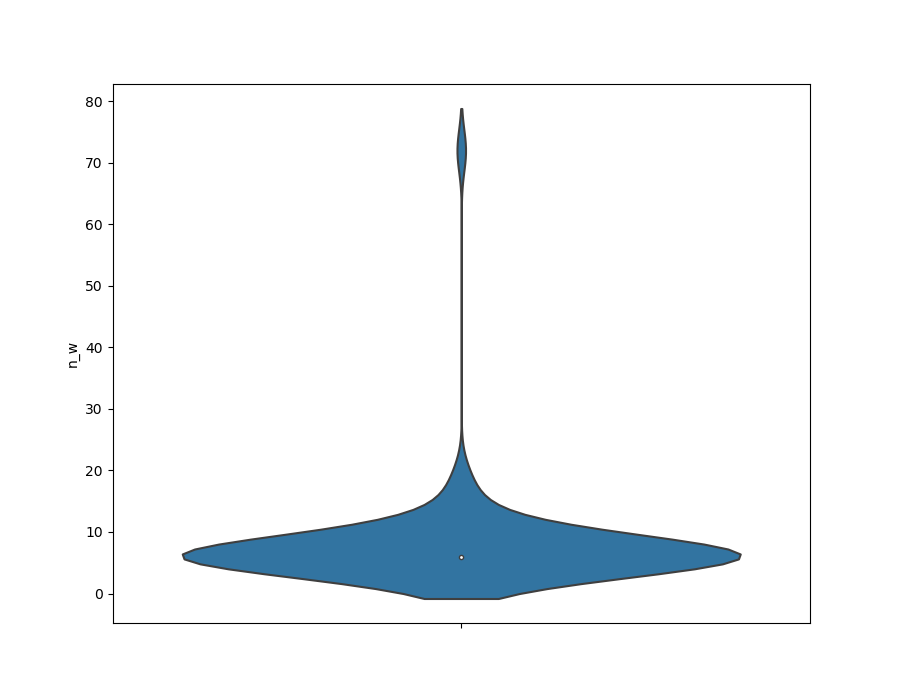
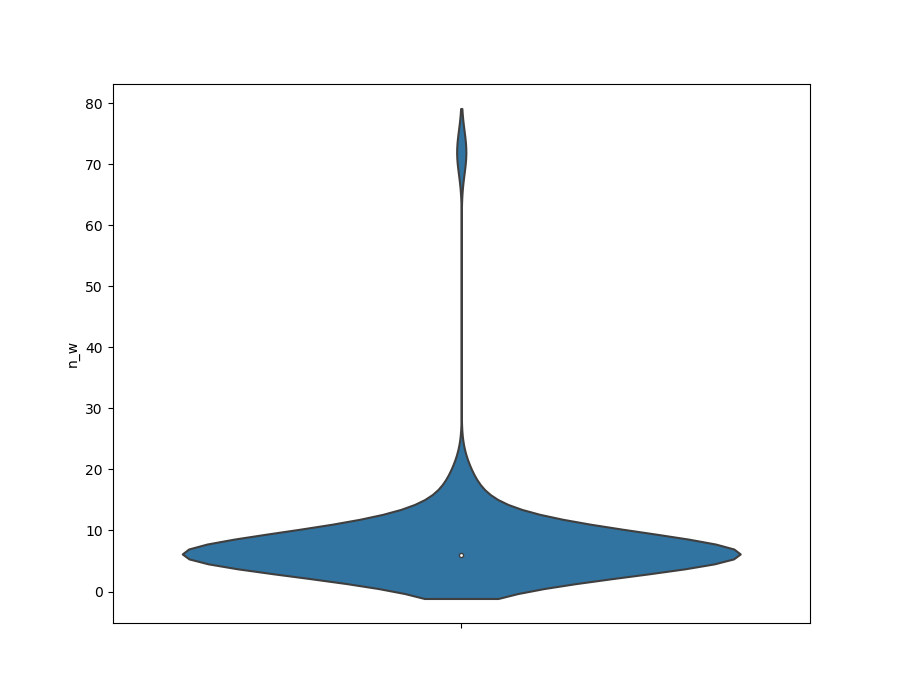
Made more graphs for the next 6 categorgies with the most answers

diff --git a/src/main.py b/src/main.py
@@ -21,37 +21,25 @@ if __name__ == '__main__':
     titles = read_cols('data/titles_to_use.txt')
     drops = read_cols('data/cols_to_drop.txt')
 
-    # plot_wordcloud(text_df['DocumentTitle'], max_words=100000, title='Word Cloud of Whole Dataset\'s Doc Titles', \
-    #                filepath='graphs/all_doc_titles.png')
-    
-    # plot_wordcloud(text_df['Sentence'], max_words=1000000000, title='Word Cloud of Whole Dataset\'s Sentences', \
-                    # filepath='graphs/all_doc_sentences.png')
-
     # Narrowing dataset    
     healthcare_df = select_doc_titles(text_df, titles)
     healthcare_df = drop_cols(healthcare_df, drops)
-
-    # plot_wordcloud(healthcare_df['DocumentTitle'], max_words = 999999999999, title='Word Cloud of QA Healtcare Dataset Question Types', \
-    #                              filepath='graphs/healthcareQs_wc.png')
-
-    # plot_wordcloud(healthcare_df['Sentence'], max_words = 999999999999, title='Word Cloud of QA Healtcare Dataset Answers', \
-    #                              filepath='graphs/healthcareAs_wc.png')
 
     # Bar chart of answers per question
     val_count = healthcare_df['DocumentTitle'].value_counts()
     make_barchart(val_count.index, val_count, filepath='graphs/answers_per_question.png', figsize=(35, 15), title='Number of answers for each category')    
     
     # Word Cloud of Top 5 Categories with the most answers
-    top_5 = ['List of muscles of the human body', 'Meiosis', 'Mandibular first molar', \
+    top_6 = ['List of muscles of the human body', 'Meiosis', 'Mandibular first molar', \
              'Comparison of the health care systems in Canada and the United States', \
              'Antibody', 'Cellular respiration']
 
-    wordcloud_of_answers(healthcare_df, top_5)
+    wordcloud_of_answers(healthcare_df, top_6)
 
     counts_df = count_words_pipeline(healthcare_df)
     total_counts_df = count_words_pipeline(text_df)
-    pretty_plot_top_n(counts_df['n_w'], top_n=1)
-    top_n_dfs = make_graphs_pipeline(healthcare_df, top_5)
+    pretty_plot_top_n(counts_df['n_w'], top_n=3, filepath='graphs/wordcount_with_stopwords.png')
+    top_n_dfs = make_graphs_pipeline(healthcare_df, top_6)
 
     plot_multi_top_n(top_n_dfs, filepath='graphs/collaged_topn.png', top_n=5, numrows=2, numcols=3)
     make_counts_violin(counts_df, filepath='graphs/healthcare_violin.png')
@@ -59,8 +47,8 @@ if __name__ == '__main__':
 
     counts_df = count_words_pipeline(healthcare_df, remove_stop=True)
     total_counts_df = count_words_pipeline(text_df, remove_stop=True)
-    pretty_plot_top_n(counts_df['n_w'], top_n=1)
-    top_n_dfs = make_graphs_pipeline(healthcare_df, top_5, remove_stop=True)
+    pretty_plot_top_n(counts_df['n_w'], top_n=3, filepath='graphs/wordcount_no_stopwords.png')
+    top_n_dfs = make_graphs_pipeline(healthcare_df, top_6, remove_stop=True)
     plot_multi_top_n(top_n_dfs, filepath='graphs/collaged_topn_no_stopwords.png', top_n=5, numrows=2, numcols=3)
     make_counts_violin(counts_df, filepath='graphs/healthcare_violin_no_stopwords.png')
     make_counts_violin(total_counts_df, filepath='graphs/wikiQA_violin_no_stopwords.png')
@@ -70,3 +58,11 @@ if __name__ == '__main__':
 
     plot_wordcloud(healthcare_df['Sentence'], max_words = 999999999999, title='Word Cloud of QA Healtcare Dataset Answers', \
                                  filepath='graphs/healthcareAs_no_stopwords_wc.png')
+
+    next_6 = ['Vitamin', 'Diagnosis-related group', 'Multiple sclerosis', 'Vitamin A', 'Digestion', \
+              'Health care in the United States']
+    next_n_dfs = make_graphs_pipeline(healthcare_df, next_6)
+    plot_multi_top_n(next_n_dfs, filepath='graphs/collaged_nextn.png', top_n=5, numrows=2, numcols=3)
+
+    next_n_dfs = make_graphs_pipeline(healthcare_df, next_6, remove_stop=True)
+    plot_multi_top_n(next_n_dfs, filepath='graphs/collaged_nextn_no_stopwords.png', top_n=5, numrows=2, numcols=3)

diff --git a/src/plotting.py b/src/plotting.py
@@ -41,6 +41,7 @@ def plot_wordcloud(text, mask=None, max_words=200, max_font_size=100, figure_siz
     plt.axis('off');
     plt.tight_layout()
     plt.savefig(filepath)
+    plt.close()
 
 def make_barchart(x, y, filepath=None, figsize=(12, 8), title=None):
     ax, fig = plt.subplots(1,1, figsize=figsize)
@@ -51,6 +52,7 @@ def make_barchart(x, y, filepath=None, figsize=(12, 8), title=None):
         fig.set_title(title, fontsize=25)
     
     plt.savefig(filepath)
+    plt.close()
 
 def pretty_plot_top_n(series, top_n=5, index_level=0, filepath=None):
     r = series\
@@ -58,7 +60,7 @@ def pretty_plot_top_n(series, top_n=5, index_level=0, filepath=None):
         .nlargest(top_n)\
         .reset_index(level=index_level, drop=True)
 
-    make_barchart(r.index, r, filepath='graphs/top_n_word_count.png', figsize=(50, 30), \
+    make_barchart(r.index, r, filepath=filepath, figsize=(50, 30), \
                   title='Count of the Most Frequent Word in all Answers for Each Question')
 
 def plot_multi_top_n(series_arr, index_level=0, top_n=5, filepath=None, numrows=1, numcols=1):
@@ -70,6 +72,7 @@ def plot_multi_top_n(series_arr, index_level=0, top_n=5, filepath=None, numrows=
             if index == len(series_arr):
                 plt.savefig(filepath)
                 plt.tight_layout()
+                plt.close()
                 return
             r = series_arr[index] \
                 .groupby(level=index_level) \
@@ -86,11 +89,13 @@ def plot_multi_top_n(series_arr, index_level=0, top_n=5, filepath=None, numrows=
 
     plt.tight_layout()
     plt.savefig(filepath)
+    plt.close()
 
 def make_counts_violin(df, filepath='graphs/violinplot.png'):
     fig, ax = plt.subplots(figsize =(9, 7)) 
     sns.violinplot(ax = ax,  y = df['n_w'] )
     fig.savefig(filepath)
+    plt.close()
 
 
 def pareto_plot(df, x=None, y=None, title=None, number_categories = 10, show_pct_y=False, pct_format='{0:.0%}'):    

diff --git a/src/cleaning.py b/src/cleaning.py
@@ -60,19 +60,20 @@ def parse_words_to_word(df):
 
 def remove_stop_words(df):
     stop = stopwords.words('english')
+    df['word'] = df.word.str.lower()
     df['word'] = df['word'].apply(lambda x: ' '.join([word for word in x.split() if word not in (stop)]))
     return df
 
 def remove_empty_word_cols(df):
     words = df[df.word.str.len() > 0]
-    words.word.str.lower()
     return words
 
 def count_word_ocurrence(df):
     counts = df.groupby('DocumentTitle')\
             .word.value_counts()\
             .to_frame()\
-            .rename(columns={'word':'n_w'})
+            .rename(columns={'word':'n_w'})\
+            .sort_values('n_w')
     return counts
 
 
